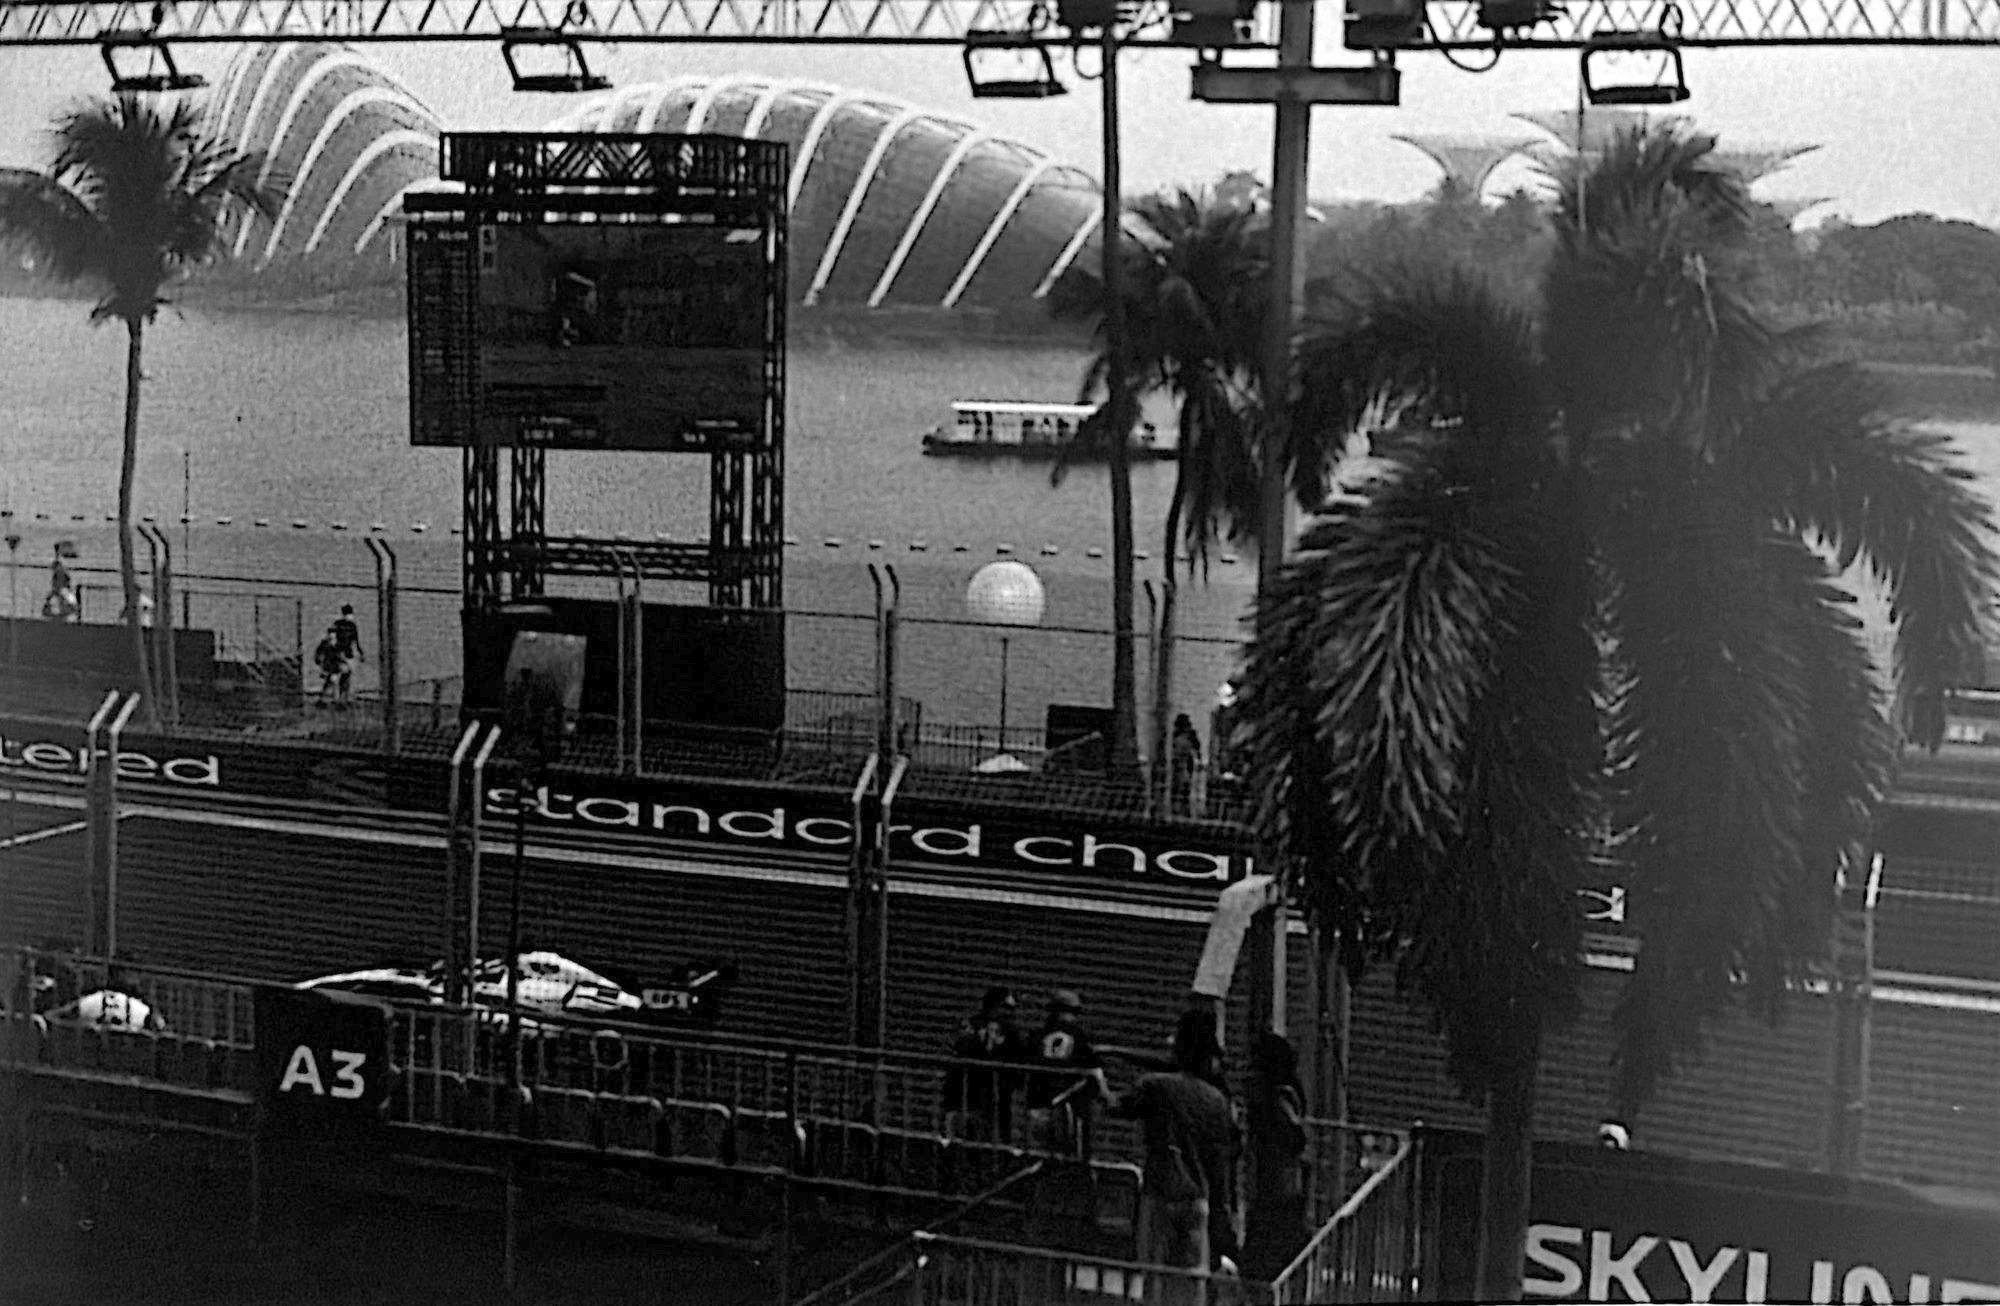
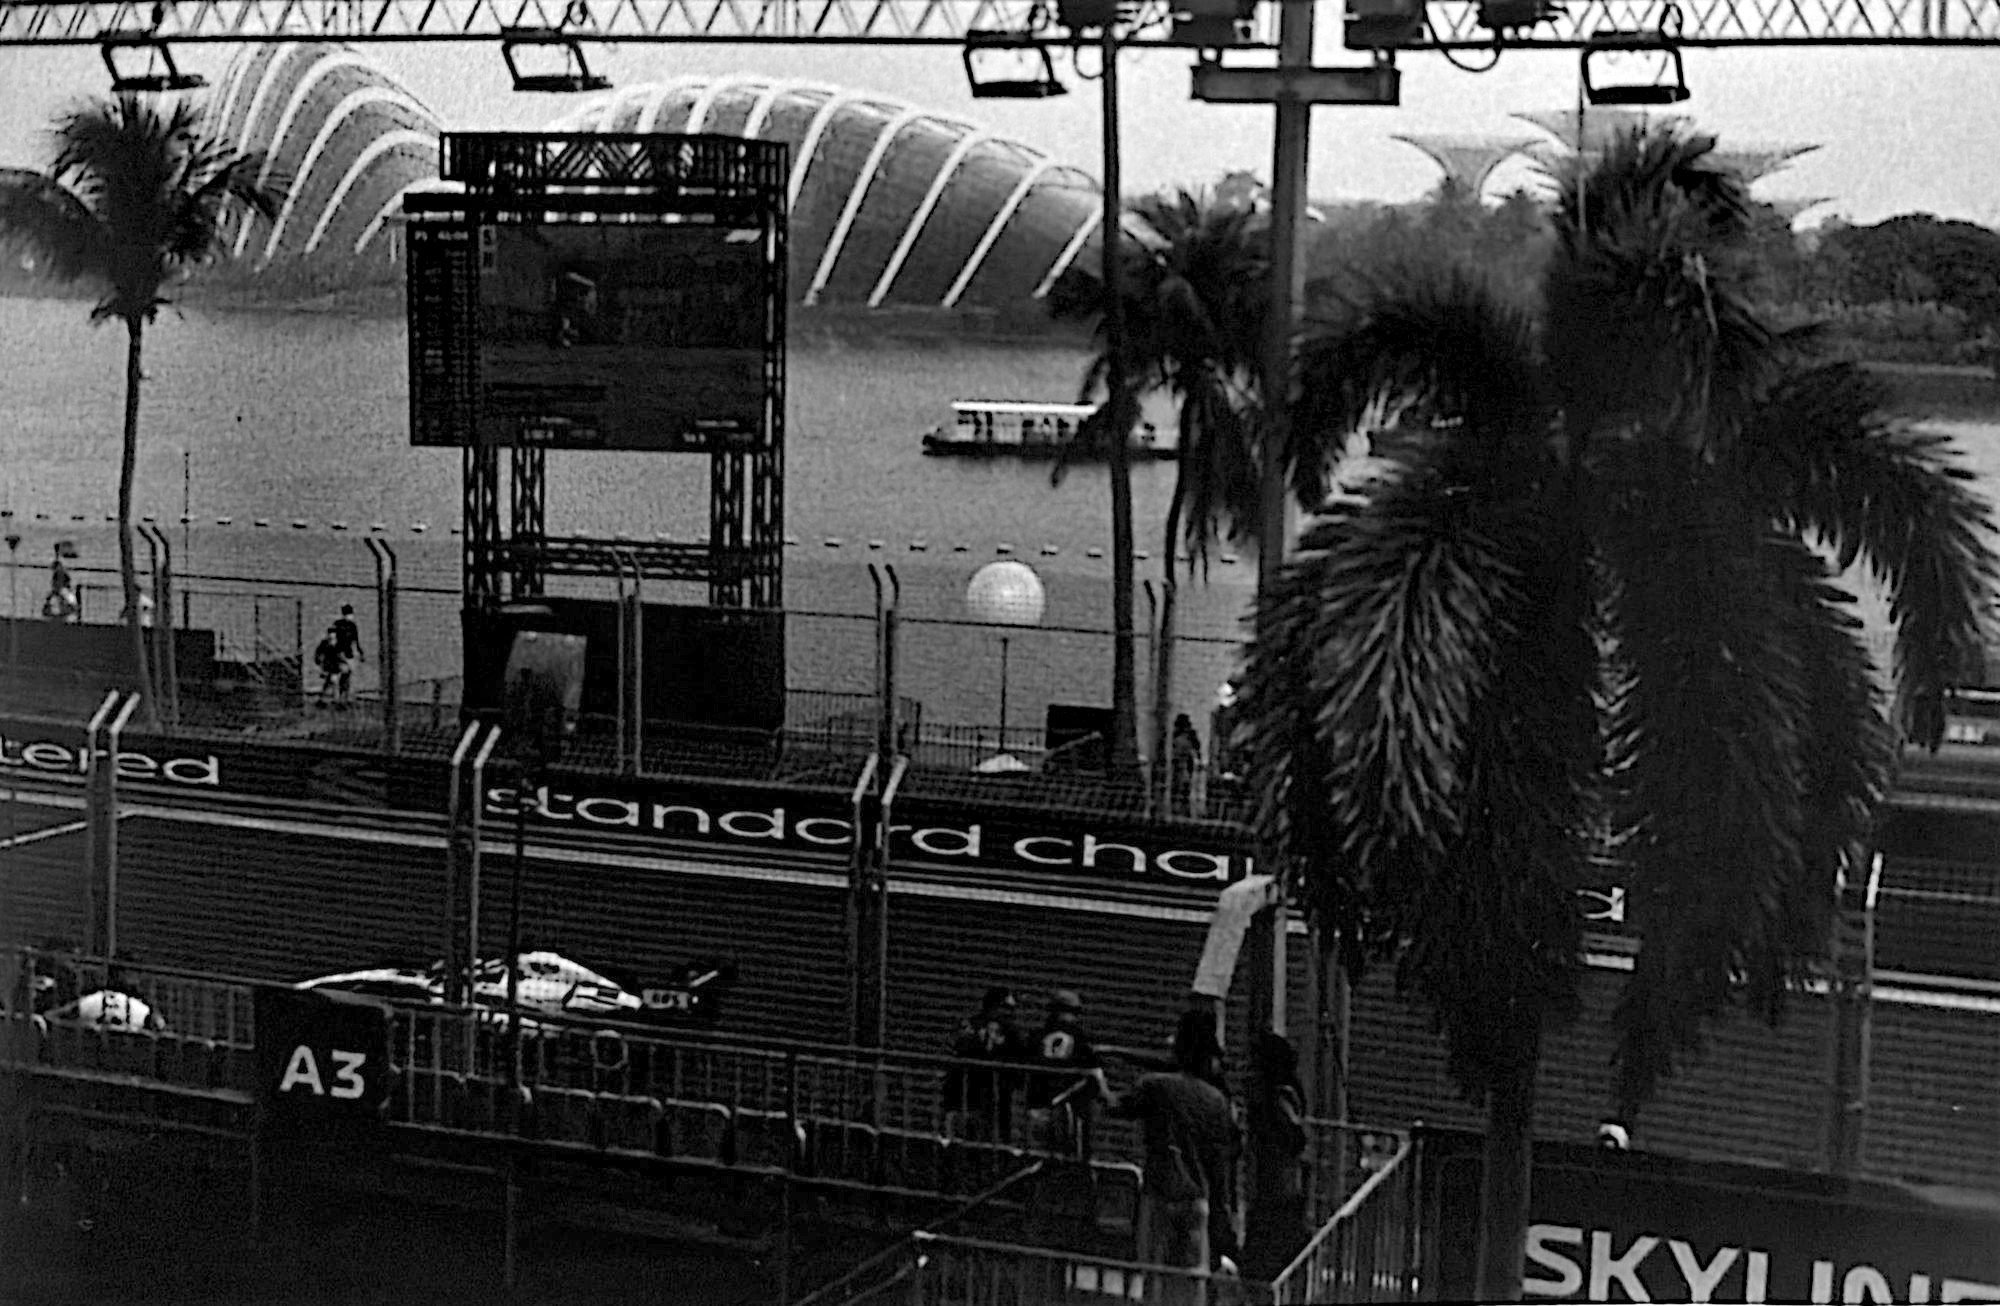
Remove the uneven veil of light from the three scans
Glare on the prints when they were copied left the right side of the
third photograph and the top corners of the other two grey instead of
black. tools/veil.py estimates that veil from the dark regions and
subtracts it; the third photograph is also brightened.

Claude-Session: https://claude.ai/code/session_01R2tScxRzjUHszpw5FmpwEp

diff --git a/tools/veil.py b/tools/veil.py
@@ -1,0 +1,32 @@
+# Removes the uneven veil of light (glare on the print when it was copied) from a scan.
+# In every small region that is mostly dark, the darkest tone ought to be black; whatever it
+# measures above black there is veil. Bright regions (sky, track) say nothing about the veil,
+# so they are skipped and filled in from their neighbours. The veil map is smoothed, enlarged
+# to the picture and subtracted, so black is the same black everywhere.
+import sys, numpy as np
+from PIL import Image
+def blur(m, s):
+    r = int(s * 3) + 1; k = np.exp(-np.arange(-r, r + 1) ** 2 / (2 * s * s))
+    f = lambda v: np.convolve(v, k, 'same')
+    return np.apply_along_axis(f, 1, np.apply_along_axis(f, 0, m))
+def veil(a, R=18, C=27):
+    h, w = a.shape; D = np.zeros((R, C), np.float32); M = np.zeros((R, C), np.float32)
+    for r in range(R):
+        for c in range(C):
+            t = a[r*h//R:(r+1)*h//R, c*w//C:(c+1)*w//C]
+            if np.median(t) < 80: D[r, c] = np.percentile(t, 2.5); M[r, c] = 1
+    V = blur(D * M, 1.3) / np.maximum(blur(M, 1.3), 1e-3)
+    V = np.asarray(Image.fromarray(V.astype(np.float32), 'F').resize((w, h), Image.BICUBIC))
+    return np.clip(V, 0, None), M.mean()
+def tiles(a, R=6, C=10):
+    h, w = a.shape
+    return '\n'.join('  ' + ' '.join('%3d' % np.percentile(a[r*h//R:(r+1)*h//R, c*w//C:(c+1)*w//C], 2) for c in range(C)) for r in range(R))
+if __name__ == '__main__':
+    src, dst, gamma = sys.argv[1], sys.argv[2], float(sys.argv[3])
+    a = np.asarray(Image.open(src).convert('L')).astype(np.float32)
+    V, used = veil(a); print(src, 'veil max %.0f, mean %.1f, dark regions used %.0f%%' % (V.max(), V.mean(), used * 100))
+    b = np.clip((a - V) * 255.0 / np.maximum(255.0 - V, 1), 0, 255)     # glare also compresses the range; restore it
+    print(tiles(b))
+    if gamma != 1: lo, hi = np.percentile(b, .5), np.percentile(b, 99.7); b = np.clip((b - lo) / (hi - lo), 0, 1) ** gamma * 255
+    Image.fromarray(b.astype(np.uint8)).save(dst, quality=88)
+    Image.fromarray(np.clip(V * 4, 0, 255).astype(np.uint8)).resize((400, int(400 * a.shape[0] / a.shape[1]))).save(dst.replace('.jpg', '_veil.png'))
